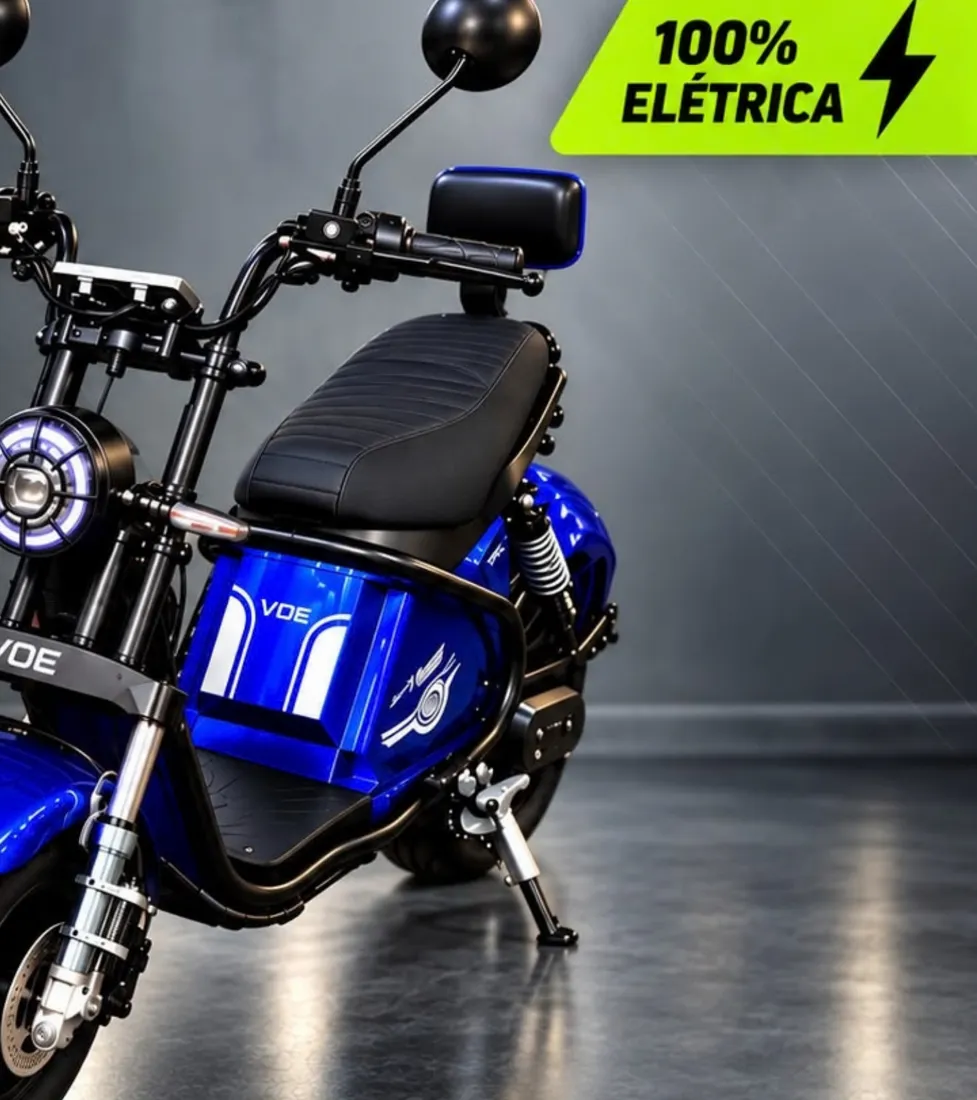
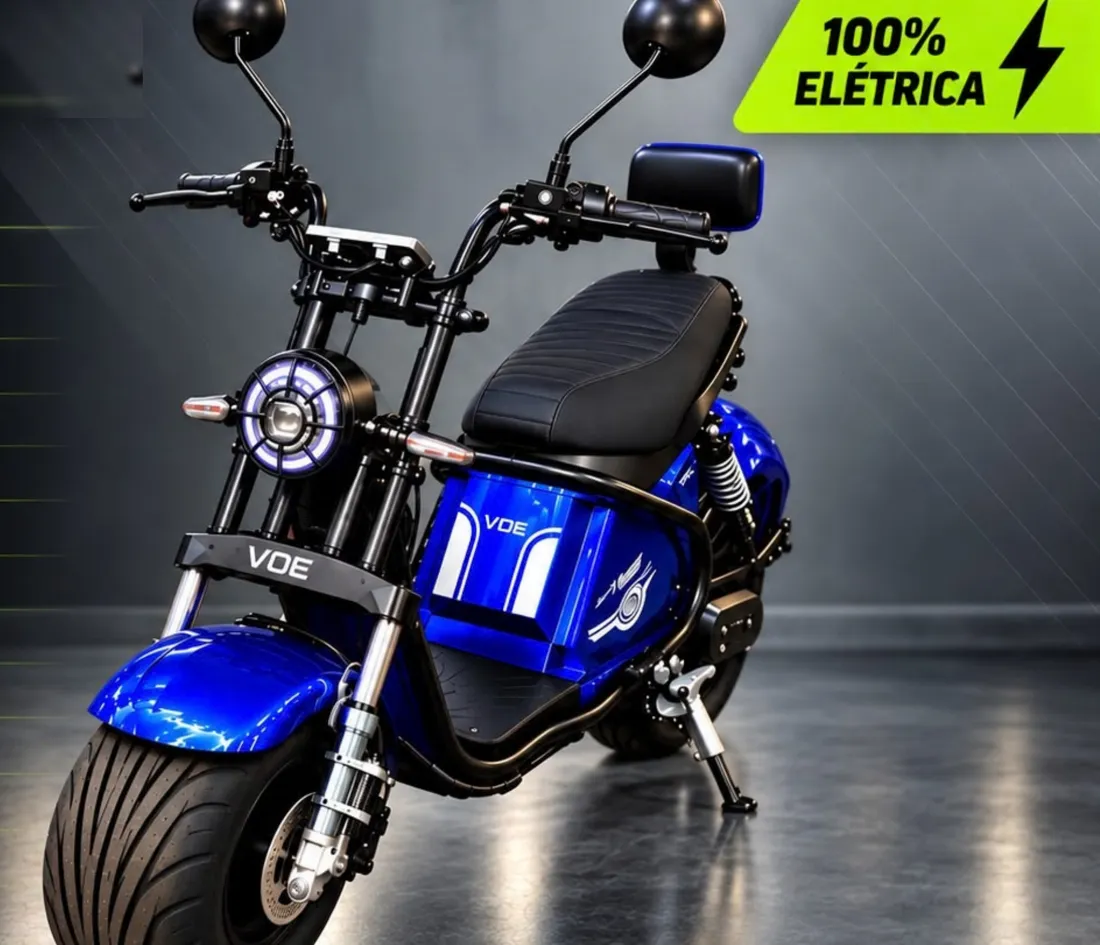
Foto da X15 Infinito com a moto inteira

diff --git a/index.html b/index.html
@@ -13,7 +13,7 @@
   <link rel="preconnect" href="https://fonts.googleapis.com">
   <link rel="preconnect" href="https://fonts.gstatic.com" crossorigin>
   <link href="https://fonts.googleapis.com/css2?family=Montserrat:wght@400;500;600;700&family=Saira:ital,wdth,wght@1,75,700;1,75,800;1,75,900&display=swap" rel="stylesheet">
-  <link rel="stylesheet" href="css/style.css?v=6">
+  <link rel="stylesheet" href="css/style.css?v=7">
 </head>
 <body>
 
@@ -191,7 +191,7 @@
             <a href="#quero" class="btn btn--lime">Pedir proposta</a>
           </div>
         </div>
-        <img class="loja__img" src="assets/img/motos/x15-infinito.webp" alt="Moto elétrica X15 Infinito azul" loading="lazy">
+        <img class="loja__img" src="assets/img/motos/x15-infinito.webp?v=2" alt="Moto elétrica X15 Infinito azul" loading="lazy">
       </div>
     </section>
   </main>
@@ -229,8 +229,8 @@
     </div>
   </dialog>
 
-  <script src="js/config.js?v=6"></script>
-  <script src="js/modelos.js?v=6"></script>
-  <script src="js/app.js?v=6"></script>
+  <script src="js/config.js?v=7"></script>
+  <script src="js/modelos.js?v=7"></script>
+  <script src="js/app.js?v=7"></script>
 </body>
 </html>

diff --git a/js/app.js b/js/app.js
@@ -7,7 +7,7 @@
   var $ = function (s, el) { return (el || document).querySelector(s); };
   var $$ = function (s, el) { return Array.prototype.slice.call((el || document).querySelectorAll(s)); };
 
-  function foto(m) { return "assets/img/motos/" + m.id + ".webp"; }
+  function foto(m) { return "assets/img/motos/" + m.id + ".webp?v=2"; }
   function paginaCatalogo(m) { return "assets/img/fichas/" + m.id + ".webp"; }
   function porId(id) { for (var i = 0; i < MODELOS.length; i++) if (MODELOS[i].id === id) return MODELOS[i]; return null; }
   function esc(t) { var d = document.createElement("div"); d.textContent = t == null ? "" : String(t); return d.innerHTML; }
